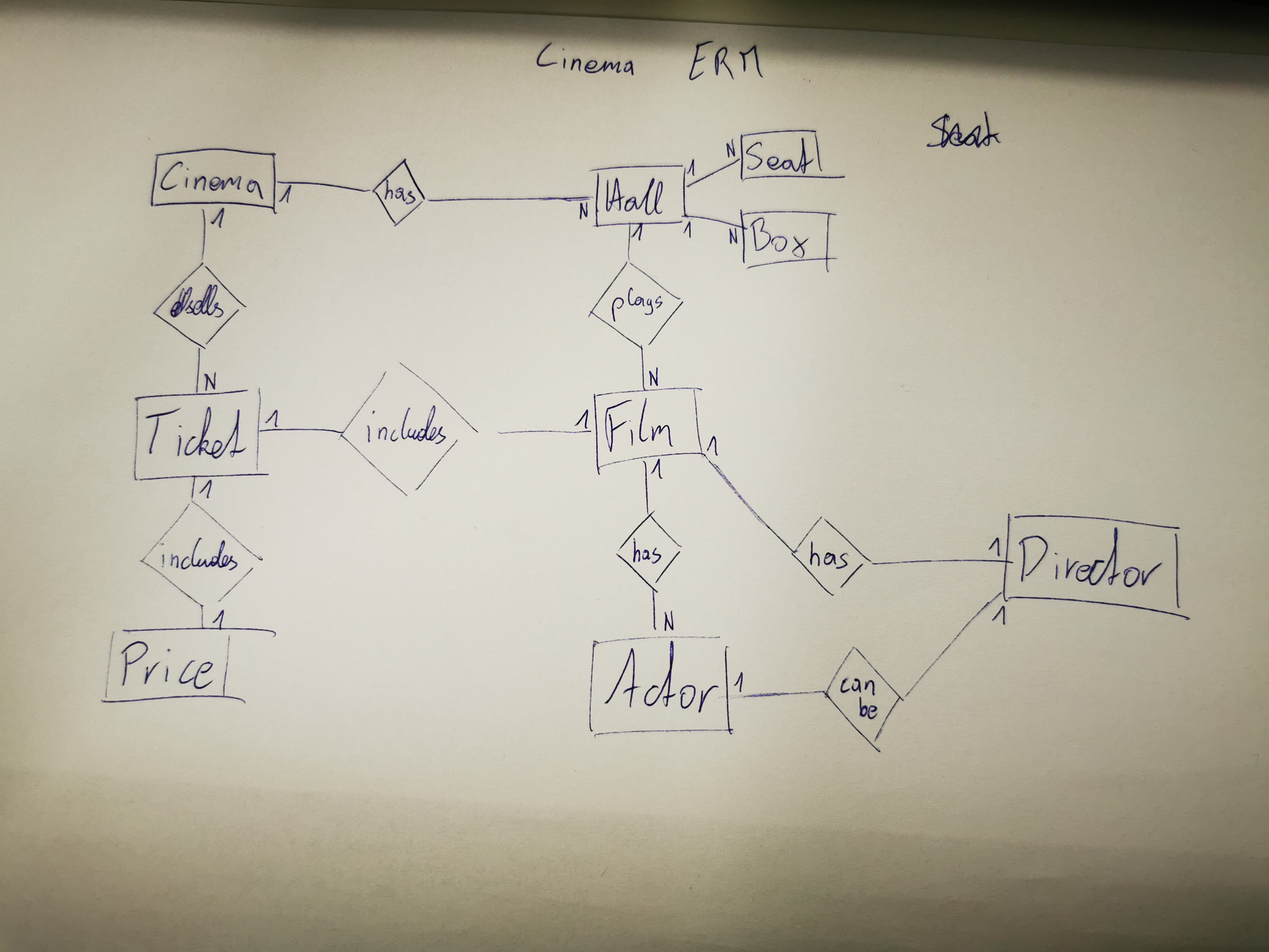
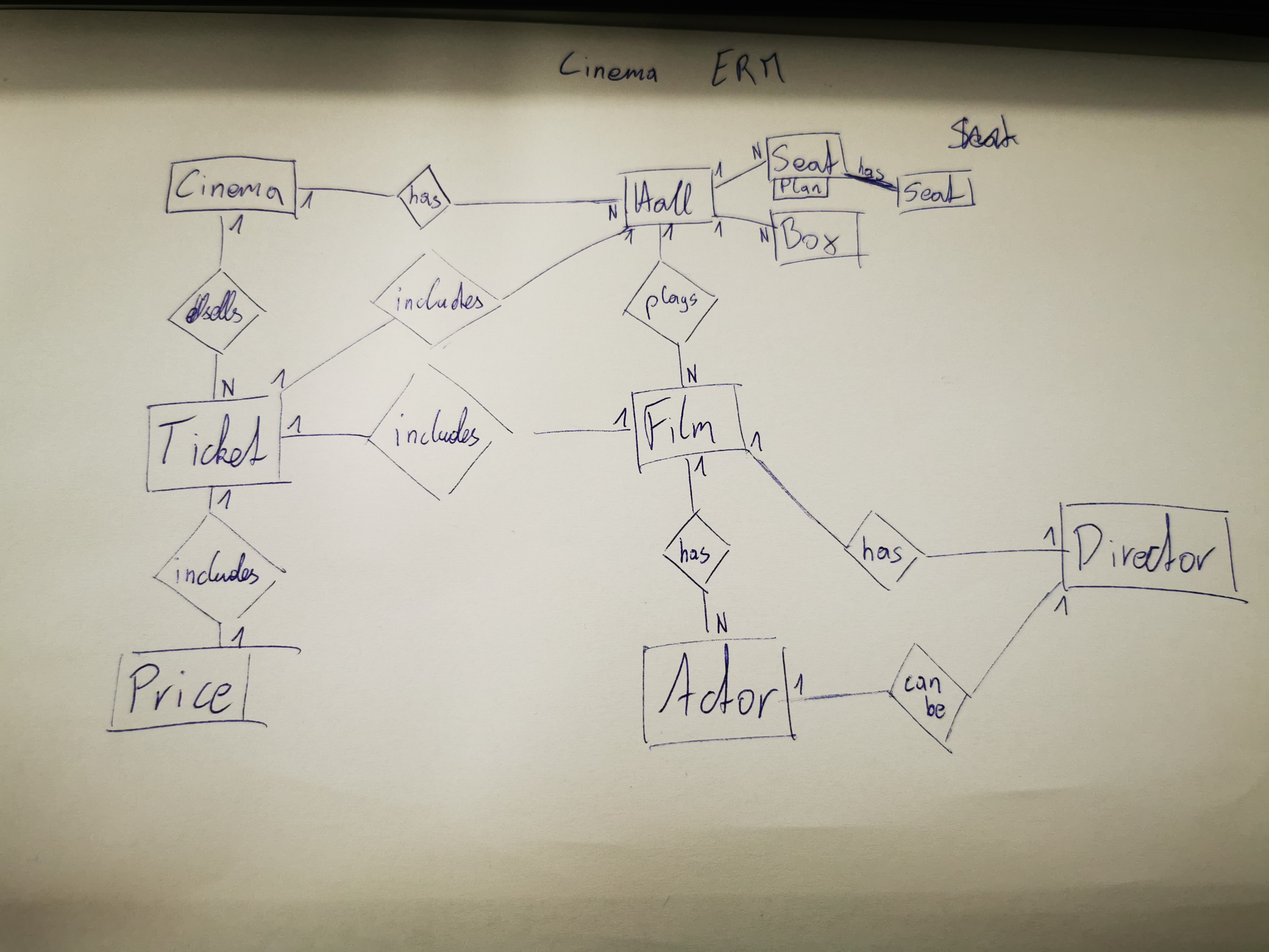
Edit

diff --git a/README.md b/README.md
@@ -17,6 +17,8 @@ Cinema (CID: int, Name: varchar, Address: varchar, Halls: int)
 
 Hall (HID: int, Rows: int, Seats: int)
 
+Seat Plan (ID: int, SID)
+
 Seat (SID: int)
 
 Box (RowID: int)
